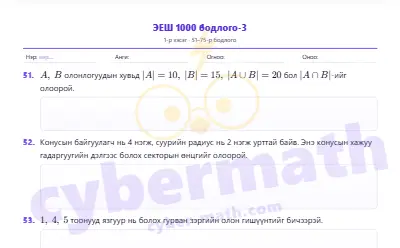
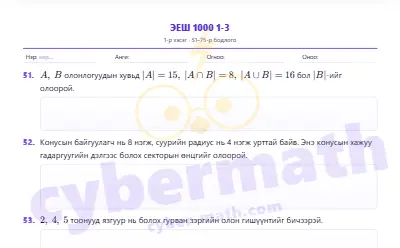
chore(eesh): ЭЕШ 1000 хуудсуудын нэрийг «ЭЕШ 1000 хэсэг-хуудас» болгов
- «ЭЕШ 1000 1-1 … 1-4» (1-р хэсэг), «ЭЕШ 1000 2-1 … 2-4» (2-р хэсэг)
- Каталог, хуудасны гарчиг, WS_TITLE, картын зураг; файлын нэр (eesh1000-K.html) хэвээр

diff --git a/catalog.js b/catalog.js
@@ -1343,14 +1343,14 @@ window.WS_LIST=[
     ['eesh-2024-nohoh.html','ЭЕШ 2024 — 2-р хэсэг. Нөхөх даалгавар'],
     ['eesh-2023-songoh.html','ЭЕШ 2023 — 1-р хэсэг. Сонгох даалгавар'],
     ['eesh-2023-nohoh.html','ЭЕШ 2023 — 2-р хэсэг. Нөхөх даалгавар'],
-    ['eesh1000-1.html','ЭЕШ 1000 бодлого-1 — 1-р хэсэг, 1–25-р бодлого'],
-    ['eesh1000-2.html','ЭЕШ 1000 бодлого-2 — 1-р хэсэг, 26–50-р бодлого'],
-    ['eesh1000-3.html','ЭЕШ 1000 бодлого-3 — 1-р хэсэг, 51–75-р бодлого'],
-    ['eesh1000-4.html','ЭЕШ 1000 бодлого-4 — 1-р хэсэг, 76–100-р бодлого'],
-    ['eesh1000-5.html','ЭЕШ 1000 бодлого-5 — 2-р хэсэг, 1–25-р бодлого'],
-    ['eesh1000-6.html','ЭЕШ 1000 бодлого-6 — 2-р хэсэг, 26–50-р бодлого'],
-    ['eesh1000-7.html','ЭЕШ 1000 бодлого-7 — 2-р хэсэг, 51–75-р бодлого'],
-    ['eesh1000-8.html','ЭЕШ 1000 бодлого-8 — 2-р хэсэг, 76–100-р бодлого'],
+    ['eesh1000-1.html','ЭЕШ 1000 1-1'],
+    ['eesh1000-2.html','ЭЕШ 1000 1-2'],
+    ['eesh1000-3.html','ЭЕШ 1000 1-3'],
+    ['eesh1000-4.html','ЭЕШ 1000 1-4'],
+    ['eesh1000-5.html','ЭЕШ 1000 2-1'],
+    ['eesh1000-6.html','ЭЕШ 1000 2-2'],
+    ['eesh1000-7.html','ЭЕШ 1000 2-3'],
+    ['eesh1000-8.html','ЭЕШ 1000 2-4'],
   ]],
   /* ── Олимпиад (7–8-р анги; «Математикийн мэргэжлийн курс 7»-ийн бодлогоос, бодолт хавсаргасан). Ангиас тусдаа бүлэг, тусдаа эрхийн түлхүүр ("Олимпиад"). ── */
   ['Олимпиад',[

diff --git a/eesh1000-2.html b/eesh1000-2.html
@@ -3,7 +3,7 @@
 <head>
 <meta charset="UTF-8" />
 <meta name="viewport" content="width=device-width, initial-scale=1.0" />
-<title>ЭЕШ 1000 бодлого-2</title>
+<title>ЭЕШ 1000 1-2</title>
 <link rel="stylesheet" href="https://cdnjs.cloudflare.com/ajax/libs/KaTeX/0.16.9/katex.min.css">
 <script src="https://cdnjs.cloudflare.com/ajax/libs/KaTeX/0.16.9/katex.min.js"></script>
 <script src="https://cdnjs.cloudflare.com/ajax/libs/KaTeX/0.16.9/contrib/auto-render.min.js"></script>
@@ -13,7 +13,7 @@
 <div class="bar" id="bar"></div>
 <div class="sheet" id="sheet"></div>
 <script>
-/* ЭЕШ 1000 бодлого-2 — ЭЕШ-ийн 1000 бодлого, 1-р хэсэг (26–50-р бодлого).
+/* ЭЕШ 1000 1-2 — ЭЕШ-ийн 1000 бодлого, 1-р хэсэг (26–50-р бодлого).
    Бодлого бүр өөрийн генератортой: «Шинэ бодлого» дарахад тоо нь өөрчлөгдөнө. Хөдөлгүүр: /e1k.js */
 
 // 26. R радиустай тойрогт багтсан гурвалжны суурийн өнцгүүд α, β → хажуу талууд 2R·sin β, 2R·sin α
@@ -562,7 +562,7 @@ function p50() {
 }
 
 E1K.page({
-  title: 'ЭЕШ 1000 бодлого-2',
+  title: 'ЭЕШ 1000 1-2',
   sub: '1-р хэсэг · 26–50-р бодлого',
   first: 26,
   probs: [p26, p27, p28, p29, p30, p31, p32, p33, p34, p35, p36, p37, p38, p39, p40, p41, p42, p43, p44, p45, p46, p47, p48, p49, p50]

diff --git a/eesh1000-5.html b/eesh1000-5.html
@@ -3,7 +3,7 @@
 <head>
 <meta charset="UTF-8" />
 <meta name="viewport" content="width=device-width, initial-scale=1.0" />
-<title>ЭЕШ 1000 бодлого-5</title>
+<title>ЭЕШ 1000 2-1</title>
 <link rel="stylesheet" href="https://cdnjs.cloudflare.com/ajax/libs/KaTeX/0.16.9/katex.min.css">
 <script src="https://cdnjs.cloudflare.com/ajax/libs/KaTeX/0.16.9/katex.min.js"></script>
 <script src="https://cdnjs.cloudflare.com/ajax/libs/KaTeX/0.16.9/contrib/auto-render.min.js"></script>
@@ -13,7 +13,7 @@
 <div class="bar" id="bar"></div>
 <div class="sheet" id="sheet"></div>
 <script>
-/* ЭЕШ 1000 бодлого-5 — ЭЕШ-ийн 1000 бодлого, 2-р хэсэг (1–25-р бодлого).
+/* ЭЕШ 1000 2-1 — ЭЕШ-ийн 1000 бодлого, 2-р хэсэг (1–25-р бодлого).
    Бодлого бүр өөрийн генератортой: «Шинэ бодлого» дарахад тоо нь өөрчлөгдөнө. Хөдөлгүүр: /e1k.js */
 
 // 1. Модультай илэрхийлэл, 0 < a < b нь дараалал нь мэдэгдэж буй тогтмолууд (e, π, √n, бүхэл, 1.5):
@@ -617,7 +617,7 @@ function p25() {
 }
 
 E1K.page({
-  title: 'ЭЕШ 1000 бодлого-5',
+  title: 'ЭЕШ 1000 2-1',
   sub: '2-р хэсэг · 1–25-р бодлого',
   first: 1,
   probs: [p1, p2, p3, p4, p5, p6, p7, p8, p9, p10, p11, p12, p13, p14, p15, p16, p17, p18, p19, p20, p21, p22, p23, p24, p25]

diff --git a/eesh1000-3.html b/eesh1000-3.html
@@ -3,7 +3,7 @@
 <head>
 <meta charset="UTF-8" />
 <meta name="viewport" content="width=device-width, initial-scale=1.0" />
-<title>ЭЕШ 1000 бодлого-3</title>
+<title>ЭЕШ 1000 1-3</title>
 <link rel="stylesheet" href="https://cdnjs.cloudflare.com/ajax/libs/KaTeX/0.16.9/katex.min.css">
 <script src="https://cdnjs.cloudflare.com/ajax/libs/KaTeX/0.16.9/katex.min.js"></script>
 <script src="https://cdnjs.cloudflare.com/ajax/libs/KaTeX/0.16.9/contrib/auto-render.min.js"></script>
@@ -13,7 +13,7 @@
 <div class="bar" id="bar"></div>
 <div class="sheet" id="sheet"></div>
 <script>
-/* ЭЕШ 1000 бодлого-3 — ЭЕШ-ийн 1000 бодлого, 1-р хэсэг (51–75-р бодлого).
+/* ЭЕШ 1000 1-3 — ЭЕШ-ийн 1000 бодлого, 1-р хэсэг (51–75-р бодлого).
    Бодлого бүр өөрийн генератортой: «Шинэ бодлого» дарахад тоо нь өөрчлөгдөнө. Хөдөлгүүр: /e1k.js */
 
 // 51. |A∪B| = |A| + |B| − |A∩B|. Үл мэдэгдэх: |B|, |A∪B| эсвэл |A∩B| (үлдсэн гурав нь өгөгдөнө).
@@ -617,7 +617,7 @@ function p75() {
 }
 
 E1K.page({
-  title: 'ЭЕШ 1000 бодлого-3',
+  title: 'ЭЕШ 1000 1-3',
   sub: '1-р хэсэг · 51–75-р бодлого',
   first: 51,
   probs: [p51, p52, p53, p54, p55, p56, p57, p58, p59, p60, p61, p62, p63, p64, p65, p66, p67, p68, p69, p70, p71, p72, p73, p74, p75]

diff --git a/eesh1000-4.html b/eesh1000-4.html
@@ -3,7 +3,7 @@
 <head>
 <meta charset="UTF-8" />
 <meta name="viewport" content="width=device-width, initial-scale=1.0" />
-<title>ЭЕШ 1000 бодлого-4</title>
+<title>ЭЕШ 1000 1-4</title>
 <link rel="stylesheet" href="https://cdnjs.cloudflare.com/ajax/libs/KaTeX/0.16.9/katex.min.css">
 <script src="https://cdnjs.cloudflare.com/ajax/libs/KaTeX/0.16.9/katex.min.js"></script>
 <script src="https://cdnjs.cloudflare.com/ajax/libs/KaTeX/0.16.9/contrib/auto-render.min.js"></script>
@@ -13,7 +13,7 @@
 <div class="bar" id="bar"></div>
 <div class="sheet" id="sheet"></div>
 <script>
-/* ЭЕШ 1000 бодлого-4 — ЭЕШ-ийн 1000 бодлого, 1-р хэсэг (76–100-р бодлого).
+/* ЭЕШ 1000 1-4 — ЭЕШ-ийн 1000 бодлого, 1-р хэсэг (76–100-р бодлого).
    Бодлого бүр өөрийн генератортой: «Шинэ бодлого» дарахад тоо нь өөрчлөгдөнө. Хөдөлгүүр: /e1k.js */
 
 // 76. kA⁻¹ ± A: A⁻¹ = adj(A)/det A. det A = d ∈ {±1, ±2, ±3, ±4}, k нь d-д хуваагдана → kA⁻¹ бүхэл.
@@ -814,7 +814,7 @@ function p100() {
 }
 
 E1K.page({
-  title: 'ЭЕШ 1000 бодлого-4',
+  title: 'ЭЕШ 1000 1-4',
   sub: '1-р хэсэг · 76–100-р бодлого',
   first: 76,
   probs: [p76, p77, p78, p79, p80, p81, p82, p83, p84, p85, p86, p87, p88, p89, p90, p91, p92, p93, p94, p95, p96, p97, p98, p99, p100]

diff --git a/eesh1000-7.html b/eesh1000-7.html
@@ -3,7 +3,7 @@
 <head>
 <meta charset="UTF-8" />
 <meta name="viewport" content="width=device-width, initial-scale=1.0" />
-<title>ЭЕШ 1000 бодлого-7</title>
+<title>ЭЕШ 1000 2-3</title>
 <link rel="stylesheet" href="https://cdnjs.cloudflare.com/ajax/libs/KaTeX/0.16.9/katex.min.css">
 <script src="https://cdnjs.cloudflare.com/ajax/libs/KaTeX/0.16.9/katex.min.js"></script>
 <script src="https://cdnjs.cloudflare.com/ajax/libs/KaTeX/0.16.9/contrib/auto-render.min.js"></script>
@@ -13,7 +13,7 @@
 <div class="bar" id="bar"></div>
 <div class="sheet" id="sheet"></div>
 <script>
-/* ЭЕШ 1000 бодлого-7 — ЭЕШ-ийн 1000 бодлого, 2-р хэсэг (51–75-р бодлого).
+/* ЭЕШ 1000 2-3 — ЭЕШ-ийн 1000 бодлого, 2-р хэсэг (51–75-р бодлого).
    Бодлого бүр өөрийн генератортой: «Шинэ бодлого» дарахад тоо нь өөрчлөгдөнө. Хөдөлгүүр: /e1k.js */
 
 // 51. ∫ₐᵇ c(2x + p)/(x² + px + q) dx = c·ln(f(b)/f(a)), f = x² + px + q > 0 (D < 0) — f'/f-ийн интеграл
@@ -557,7 +557,7 @@ function p75() {
 }
 
 E1K.page({
-  title: 'ЭЕШ 1000 бодлого-7',
+  title: 'ЭЕШ 1000 2-3',
   sub: '2-р хэсэг · 51–75-р бодлого',
   first: 51,
   probs: [p51, p52, p53, p54, p55, p56, p57, p58, p59, p60, p61, p62, p63, p64, p65, p66, p67, p68, p69, p70, p71, p72, p73, p74, p75]

diff --git a/eesh1000-8.html b/eesh1000-8.html
@@ -3,7 +3,7 @@
 <head>
 <meta charset="UTF-8" />
 <meta name="viewport" content="width=device-width, initial-scale=1.0" />
-<title>ЭЕШ 1000 бодлого-8</title>
+<title>ЭЕШ 1000 2-4</title>
 <link rel="stylesheet" href="https://cdnjs.cloudflare.com/ajax/libs/KaTeX/0.16.9/katex.min.css">
 <script src="https://cdnjs.cloudflare.com/ajax/libs/KaTeX/0.16.9/katex.min.js"></script>
 <script src="https://cdnjs.cloudflare.com/ajax/libs/KaTeX/0.16.9/contrib/auto-render.min.js"></script>
@@ -13,7 +13,7 @@
 <div class="bar" id="bar"></div>
 <div class="sheet" id="sheet"></div>
 <script>
-/* ЭЕШ 1000 бодлого-8 — ЭЕШ-ийн 1000 бодлого, 2-р хэсэг (76–100-р бодлого).
+/* ЭЕШ 1000 2-4 — ЭЕШ-ийн 1000 бодлого, 2-р хэсэг (76–100-р бодлого).
    Бодлого бүр өөрийн генератортой: «Шинэ бодлого» дарахад тоо нь өөрчлөгдөнө. Хөдөлгүүр: /e1k.js */
 
 // 76. (a − √b·i)(a + √b·i) ± (c + di)·i = a² + b ∓ d ± c·i  (эх: (1−√2i)(1+√2i)+(1+3i)i = i).
@@ -906,7 +906,7 @@ function p100() {
 }
 
 E1K.page({
-  title: 'ЭЕШ 1000 бодлого-8',
+  title: 'ЭЕШ 1000 2-4',
   sub: '2-р хэсэг · 76–100-р бодлого',
   first: 76,
   probs: [p76, p77, p78, p79, p80, p81, p82, p83, p84, p85, p86, p87, p88, p89, p90, p91, p92, p93, p94, p95, p96, p97, p98, p99, p100]

diff --git a/eesh1000-1.html b/eesh1000-1.html
@@ -3,7 +3,7 @@
 <head>
 <meta charset="UTF-8" />
 <meta name="viewport" content="width=device-width, initial-scale=1.0" />
-<title>ЭЕШ 1000 бодлого-1</title>
+<title>ЭЕШ 1000 1-1</title>
 <link rel="stylesheet" href="https://cdnjs.cloudflare.com/ajax/libs/KaTeX/0.16.9/katex.min.css">
 <script src="https://cdnjs.cloudflare.com/ajax/libs/KaTeX/0.16.9/katex.min.js"></script>
 <script src="https://cdnjs.cloudflare.com/ajax/libs/KaTeX/0.16.9/contrib/auto-render.min.js"></script>
@@ -13,7 +13,7 @@
 <div class="bar" id="bar"></div>
 <div class="sheet" id="sheet"></div>
 <script>
-/* ЭЕШ 1000 бодлого-1 — ЭЕШ-ийн 1000 бодлого, 1-р хэсэг (1–25-р бодлого).
+/* ЭЕШ 1000 1-1 — ЭЕШ-ийн 1000 бодлого, 1-р хэсэг (1–25-р бодлого).
    Бодлого бүр өөрийн генератортой: «Шинэ бодлого» дарахад тоо нь өөрчлөгдөнө. Хөдөлгүүр: /e1k.js */
 
 // 1. Тойрог багтаасан тэгш өнцөгт трапец: r, AD − BC өгөгдсөн → периметр.
@@ -508,7 +508,7 @@ function p25() {
 }
 
 E1K.page({
-  title: 'ЭЕШ 1000 бодлого-1',
+  title: 'ЭЕШ 1000 1-1',
   sub: '1-р хэсэг · 1–25-р бодлого',
   first: 1,
   probs: [p1, p2, p3, p4, p5, p6, p7, p8, p9, p10, p11, p12, p13, p14, p15, p16, p17, p18, p19, p20, p21, p22, p23, p24, p25]

diff --git a/eesh1000-6.html b/eesh1000-6.html
@@ -3,7 +3,7 @@
 <head>
 <meta charset="UTF-8" />
 <meta name="viewport" content="width=device-width, initial-scale=1.0" />
-<title>ЭЕШ 1000 бодлого-6</title>
+<title>ЭЕШ 1000 2-2</title>
 <link rel="stylesheet" href="https://cdnjs.cloudflare.com/ajax/libs/KaTeX/0.16.9/katex.min.css">
 <script src="https://cdnjs.cloudflare.com/ajax/libs/KaTeX/0.16.9/katex.min.js"></script>
 <script src="https://cdnjs.cloudflare.com/ajax/libs/KaTeX/0.16.9/contrib/auto-render.min.js"></script>
@@ -13,7 +13,7 @@
 <div class="bar" id="bar"></div>
 <div class="sheet" id="sheet"></div>
 <script>
-/* ЭЕШ 1000 бодлого-6 — ЭЕШ-ийн 1000 бодлого, 2-р хэсэг (26–50-р бодлого).
+/* ЭЕШ 1000 2-2 — ЭЕШ-ийн 1000 бодлого, 2-р хэсэг (26–50-р бодлого).
    Бодлого бүр өөрийн генератортой: «Шинэ бодлого» дарахад тоо нь өөрчлөгдөнө. Хөдөлгүүр: /e1k.js */
 
 // 26. Телескоп үржвэр (эх: (1 − 1/2²)(1 − 1/3²)⋯(1 − 1/8²) = 9/16).
@@ -605,7 +605,7 @@ function p50() {
 }
 
 E1K.page({
-  title: 'ЭЕШ 1000 бодлого-6',
+  title: 'ЭЕШ 1000 2-2',
   sub: '2-р хэсэг · 26–50-р бодлого',
   first: 26,
   probs: [p26, p27, p28, p29, p30, p31, p32, p33, p34, p35, p36, p37, p38, p39, p40, p41, p42, p43, p44, p45, p46, p47, p48, p49, p50]

diff --git a/tests/e1k.test.js b/tests/e1k.test.js
@@ -85,7 +85,7 @@ for (const P of PAGES) {
     assert.ok(cfg, 'E1K.page дуудагдаагүй');
     assert.strictEqual(cfg.first, P.first);
     assert.strictEqual(cfg.probs.length, 25);
-    assert.strictEqual(cfg.title, 'ЭЕШ 1000 бодлого-' + P.k);
+    assert.strictEqual(cfg.title, 'ЭЕШ 1000 ' + Math.ceil(P.k / 4) + '-' + ((P.k - 1) % 4 + 1));   // «ЭЕШ 1000 хэсэг-хуудас»
     cfg.probs.forEach((fn, i) => {
       const n = P.first + i;
       assert.strictEqual(typeof fn, 'function', 'p' + n);
@@ -119,7 +119,7 @@ test('e1k: каталогийн ЭЕШ бүлэгт 8 хуудас (2 хэсэг
   [1, 2, 3, 4, 5, 6, 7, 8].forEach((k) => {
     const e = g[1].find((x) => x[0] === 'eesh1000-' + k + '.html');
     assert.ok(e, 'eesh1000-' + k + '.html каталогт');
-    assert.match(e[1], new RegExp('^ЭЕШ 1000 бодлого-' + k + ' — ' + Math.ceil(k / 4) + '-р хэсэг, '));
+    assert.strictEqual(e[1], 'ЭЕШ 1000 ' + Math.ceil(k / 4) + '-' + ((k - 1) % 4 + 1));
   });
   const vj = JSON.parse(fs.readFileSync(path.join(WT, 'vercel.json'), 'utf8'));
   assert.ok(vj.builds.some((b) => b.src === 'e1k.js'), 'vercel.json builds: e1k.js');
